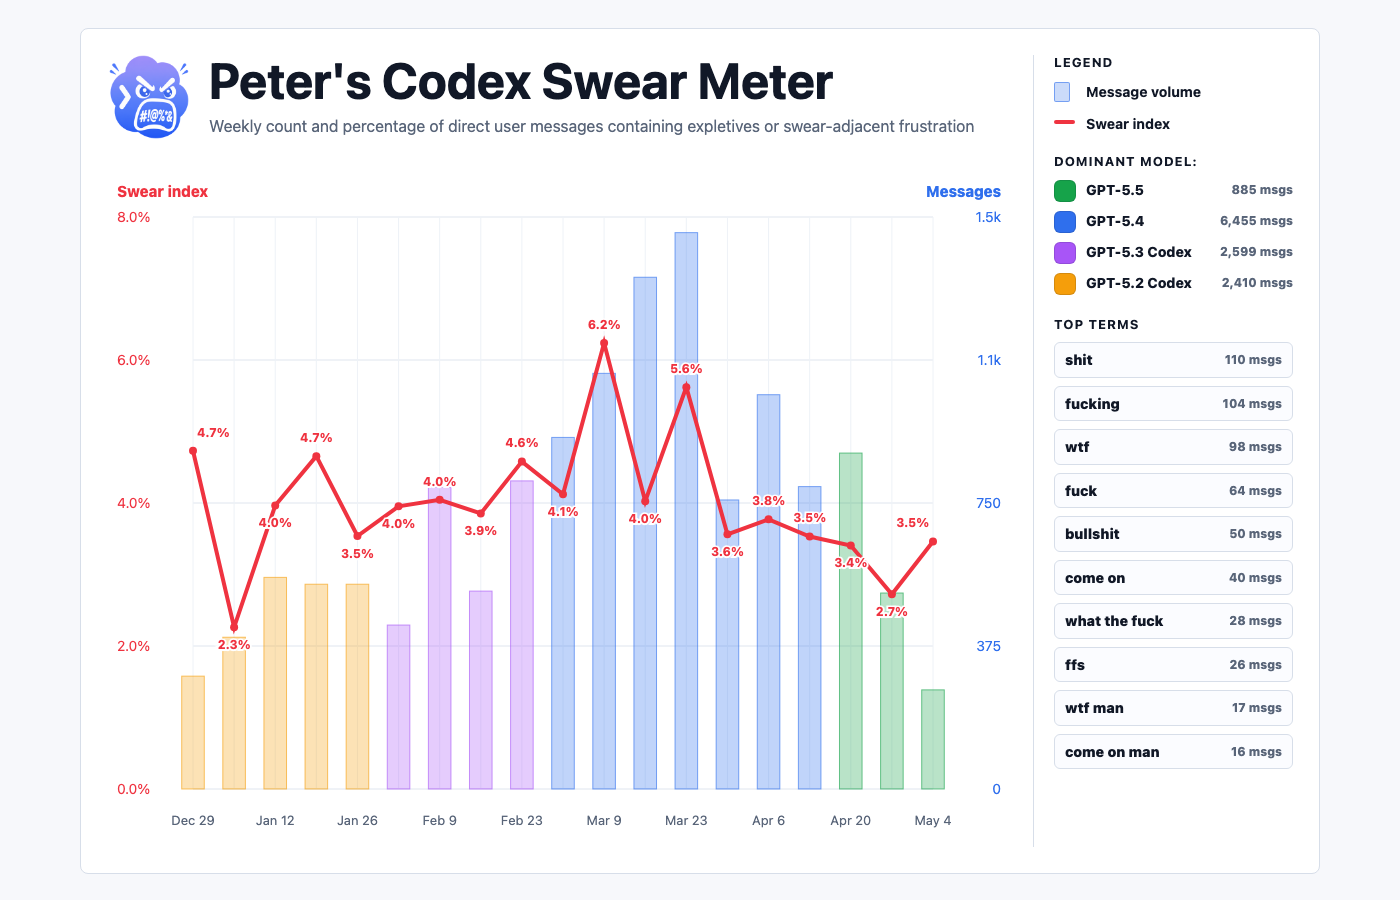
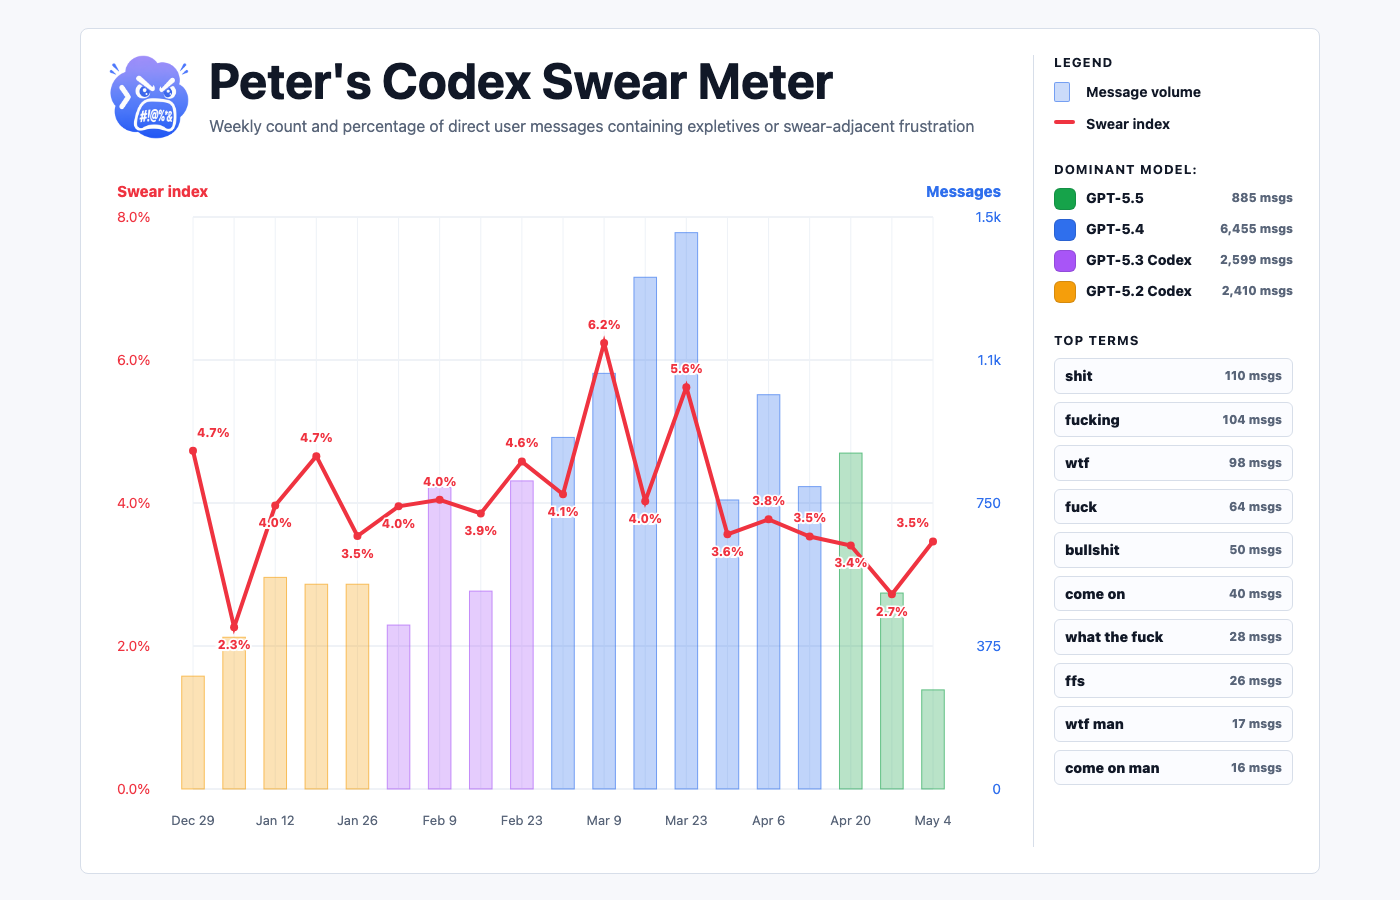
Increase chart side panel spacing

Changed region(s): [[0.7371, 0.1556, 0.9214, 0.8711]]

diff --git a/skills/codex-swear-meter/scripts/codex_swear_meter.py b/skills/codex-swear-meter/scripts/codex_swear_meter.py
@@ -229,7 +229,7 @@ SPICE_TIMELINE_TEMPLATE = """<!doctype html>
       padding-left: 20px;
       display: flex;
       flex-direction: column;
-      gap: 22px;
+      gap: 30px;
       min-width: 0;
     }
 
@@ -422,6 +422,7 @@ SPICE_TIMELINE_TEMPLATE = """<!doctype html>
         grid-row: auto;
         border-left: 0;
         border-top: 1px solid var(--border);
+        gap: 26px;
         padding: 16px 0 0;
       }
 

diff --git a/src/codex_log_tone_audit/audit.py b/src/codex_log_tone_audit/audit.py
@@ -228,7 +228,7 @@ SPICE_TIMELINE_TEMPLATE = """<!doctype html>
       padding-left: 20px;
       display: flex;
       flex-direction: column;
-      gap: 22px;
+      gap: 30px;
       min-width: 0;
     }
 
@@ -421,6 +421,7 @@ SPICE_TIMELINE_TEMPLATE = """<!doctype html>
         grid-row: auto;
         border-left: 0;
         border-top: 1px solid var(--border);
+        gap: 26px;
         padding: 16px 0 0;
       }
 